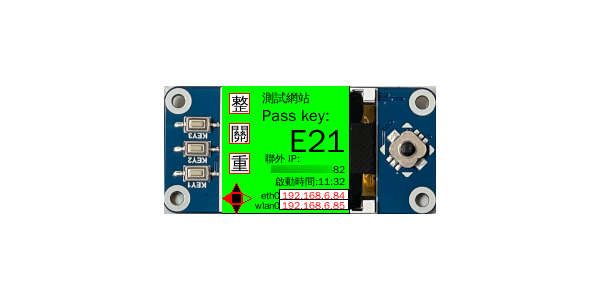
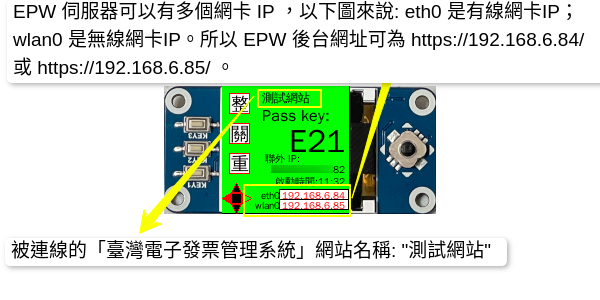
Finish the EPW user manual @CMEC2-690-master]

diff --git a/docs/epw_user_manual.rst b/docs/epw_user_manual.rst
@@ -1,8 +1,87 @@
 EPW 伺服器使用手冊
 ===============================================================================
 
+.. note::
+
+    若無使用 Waveshare LCD ，則 EPW 相關的操作資訊(Pass Key 及 IP 地址)就須向系統安裝人員詢問。
+
+    若只使用單一個「臺灣電子發票管理系統」，則系統安裝人員可寫死連線資訊，也就不用使用 EPW 後台網站來改變所連線的「臺灣電子發票管理系統」。
+
+要操控 EPW 的資訊如下圖:
+
 .. figure:: epw_user_manual/lcd-note.png
+
+    LCD 可顯示 EPW 的 IP 地址、 Pass Key 及目前所連的發票管理系統名稱
+
+從 IP 地址可知，要連線至 EPW 後台的網址為 https://192.168.6.84/ 或 https://192.168.6.85/ 。\
+在瀏覽器上輸入後，可見下圖:
+
+.. figure:: epw_user_manual/EPW-001.png
+
+    請按「進階」
+
+會再顯示「繼續前往…」的連結:
+
+.. figure:: epw_user_manual/EPW-002.png
+
+    請點選連結
+
+輸入帳號、密碼:
+
+.. figure:: epw_user_manual/EPW-003.png
+
+    須洽系統管理員
+
+登入成功後，點擊右上方的「選單鈕」:
+
+.. figure:: epw_user_manual/EPW-005.png
+
+    選單連結有「感熱式列表機」、「管理網站」、「聯外IP」、「登入者」
+
+先到「感熱式列表機」頁面:
+
+.. figure:: epw_user_manual/EPW-004.png
+
+    序號是自動抓取的，也會是惟一值
+
+若要更改連線的「電子發票管理系統」，請到「臺灣電子發票管理網站」頁面:
+
+.. figure:: epw_user_manual/EPW-006.png
+
+    紀錄都是系統管理員事先設定
+
+選定要更改的網站，點擊它的「設定鈕」:
+
+.. figure:: epw_user_manual/EPW-007.png
+
+    會再出現小視窗
+
+輸入「通行碼」，按下「設定」鈕:
+
+.. figure:: epw_user_manual/EPW-008.png
+
+    按下「設定」後，會花 10 秒鐘左右更改連線位置
+
+成功更改後，「勾選圖示」即會顯示在現在使用的網站紀錄上:
+
+.. figure:: epw_user_manual/EPW-009.png
+
+    同時只會有一筆「網站紀錄」可顯示「勾選圖示」，若有多值，請再重新設定
+
+如下圖 LCD 面板所示，原先是連線至「測試網站」:
 
 .. figure:: epw_user_manual/test-lcd.png
 
+    測試網站
+
+在成功更改後，就會顯示「正式網站」的名稱:
+
 .. figure:: epw_user_manual/live-lcd.png
+
+    正式網站
+
+若是要確認 EPW 是否有正常網路連線，可至「聯外IP」頁面確認:
+
+.. figure:: epw_user_manual/EPW-010.png
+
+    無網路時會顯示 ?.?.?.?

diff --git a/docs/install_epw_in_pi.rst b/docs/install_epw_in_pi.rst
@@ -84,7 +84,7 @@ TEA 以 WebSocket 連線 EPW 時的驗證碼
 這樣驗證碼會保持在 31A ，在 TEA 上就是固定填寫 31A 驗證碼。
 
 使用 Waveshare LCD 顯示 EPW 資訊(非必要)
-...............................................................................
+-------------------------------------------------------------------------------
 
 設定 SPI 介面:
 
